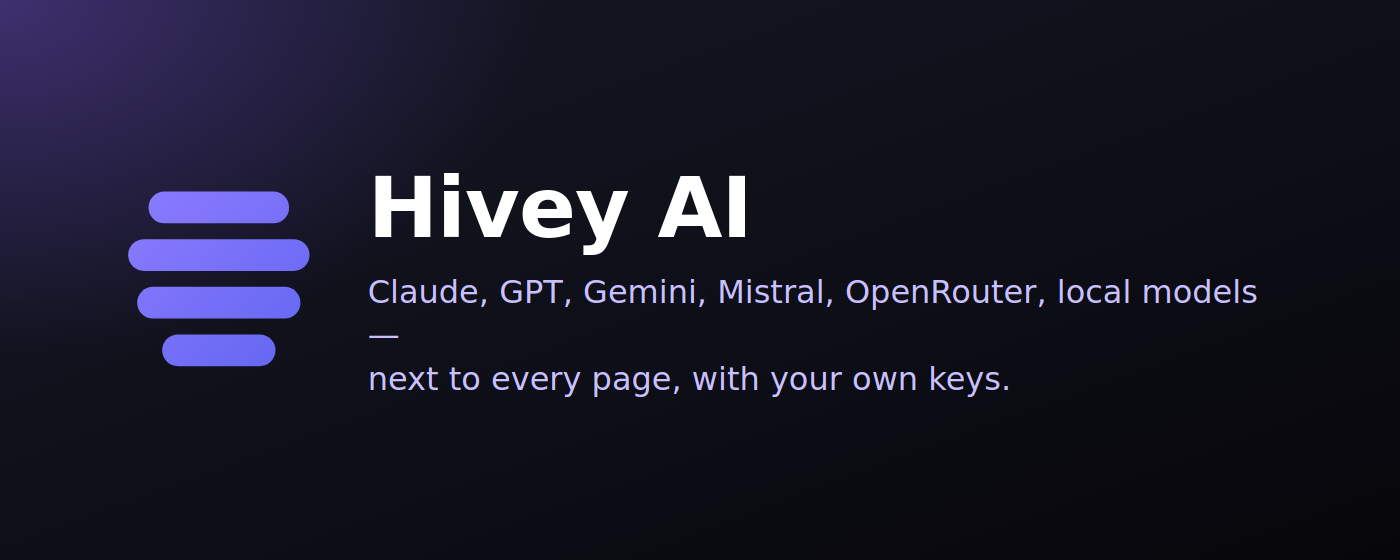
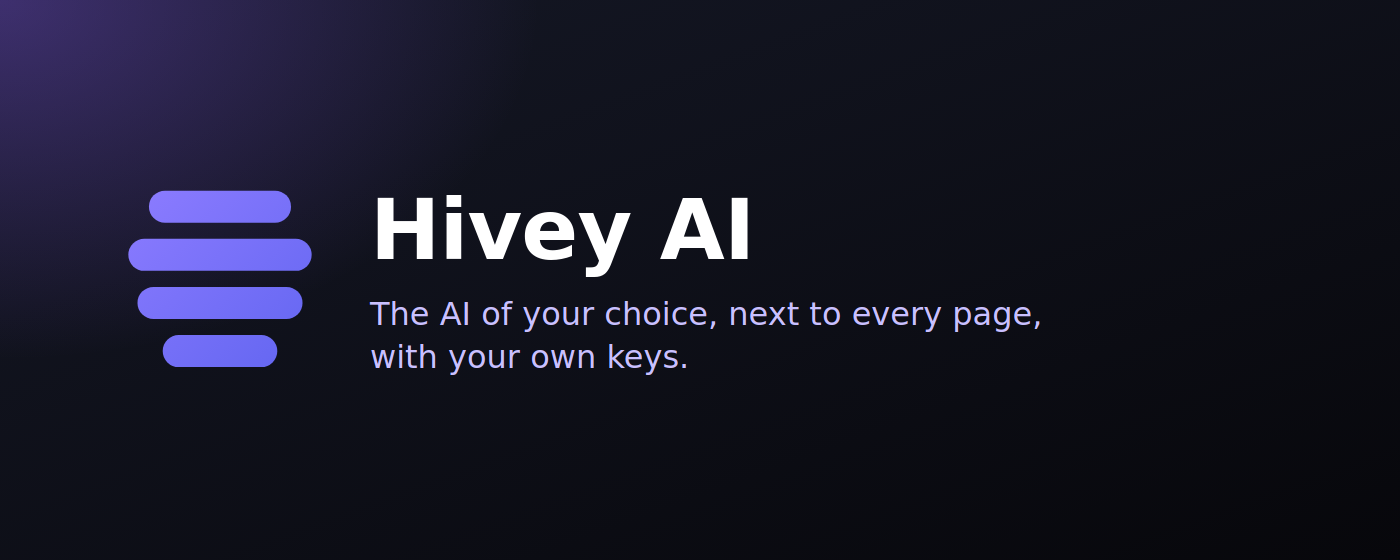
store(cws): screenshots and marquee without brand lists (#104)

Changed region(s): [[0.2457, 0.3036, 0.8907, 0.6982], [0.1229, 0.3946, 0.215, 0.4554], [0.1229, 0.3339, 0.215, 0.3643]]

diff --git a/docs/CHROME-WEB-STORE.md b/docs/CHROME-WEB-STORE.md
@@ -31,7 +31,8 @@ Refusée le 2026-10-27 pour « spam dans les mots clés » (cas *Yellow Argon*) 
 fournisseurs « Claude, OpenAI, Gemini, Mistral, Groq, DeepSeek, OpenRouter » a été vue comme du
 bourrage de mots clés. Règle : **aucune liste de marques** (ni fournisseurs d'IA, ni services MCP),
 on décrit ce que fait l'extension. Le nom d'OpenRouter n'apparaît qu'une fois, car c'est le bouton
-de connexion de l'extension.
+de connexion de l'extension. Même règle pour les **captures et vignettes** (`docs/store/`) : leurs
+légendes ne citent aucune marque.
 
 ```
 Hivey AI puts the AI of your choice in Chrome's side panel, next to every page.
